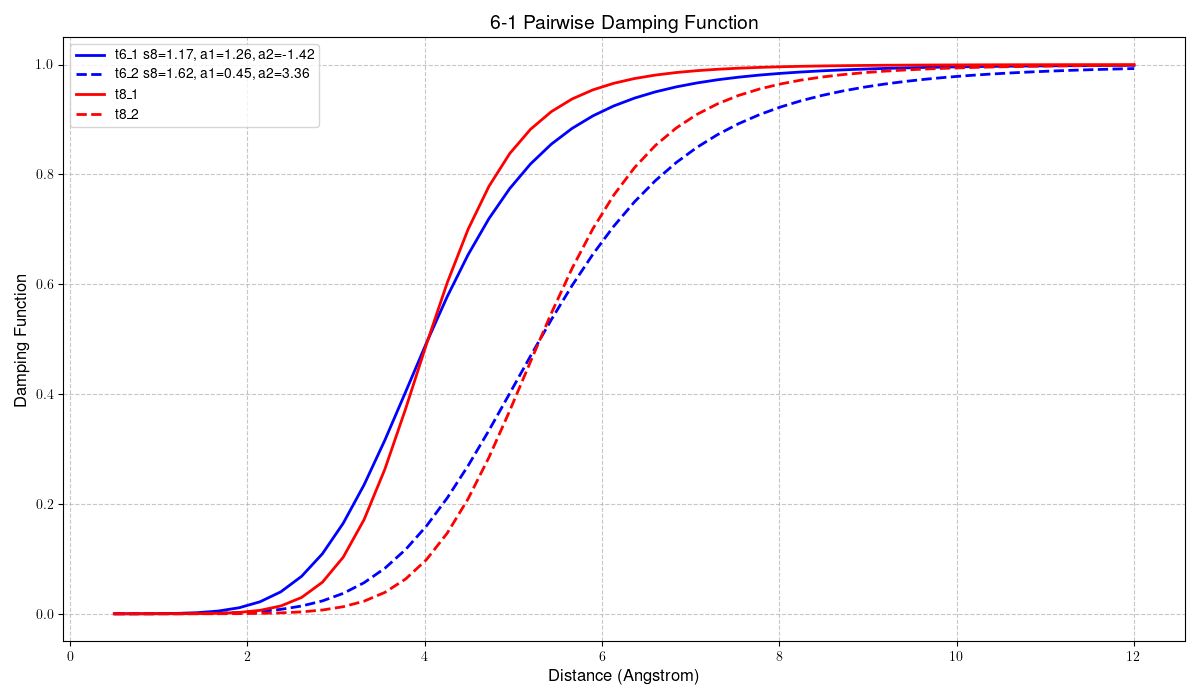
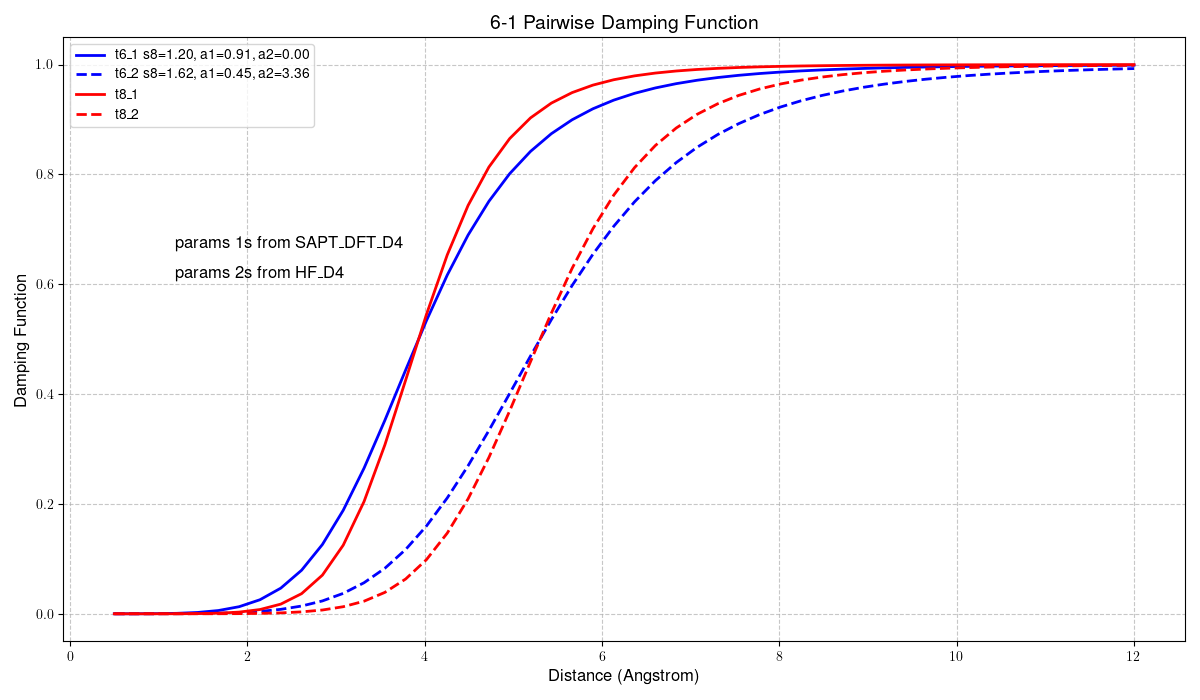
pairwise

diff --git a/plot_curve.py b/plot_curve.py
@@ -110,8 +110,8 @@ def ar_ar_setup():
     print(df)
     c6_dimers, c6_monAs, c6_monBs, t6_1s, t6_2s, t8_1s, t8_2s, dist = [], [], [], [], [], [], [], []
     e1s, e2s = [], []
-    # saptdft_d4_params, _ = src.paramsTable.generate_2B_ATM_param_subsets(src.paramsTable.get_params("SAPT_DFT_pbe0_adz_3_IE"))
-    saptdft_d4_params, _ = src.paramsTable.generate_2B_ATM_param_subsets(src.paramsTable.get_params("SAPT_DFT_OPT_END3"))
+    saptdft_d4_params, _ = src.paramsTable.generate_2B_ATM_param_subsets(src.paramsTable.get_params("SAPT_DFT_pbe0_adz_3_IE"))
+    # saptdft_d4_params, _ = src.paramsTable.generate_2B_ATM_param_subsets(src.paramsTable.get_params("SAPT_DFT_OPT_END3"))
     hfd4_params, _ = src.paramsTable.generate_2B_ATM_param_subsets(src.paramsTable.get_params("HF_ATM"))
     print(f"{saptdft_d4_params = }")
     print(f"{hfd4_params = }")
@@ -231,6 +231,10 @@ def plot_ar_ar_BJ_damping_function():
     lines = line1 + line2 + line3 + line4 
     labels = [l.get_label() for l in lines]
     ax1.legend(lines, labels, loc='best', fontsize=10)
+
+    # annotate note that 1s come from SAPT_DFT_D4 and 2s come from HF_D4
+    ax1.annotate('params 1s from SAPT_DFT_D4', xy=(0.1, 0.65), xycoords='axes fraction', fontsize=12, color='black')
+    ax1.annotate('params 2s from HF_D4', xy=(0.1, 0.60), xycoords='axes fraction', fontsize=12, color='black')
 
     # Improve appearance
     plt.tight_layout()
